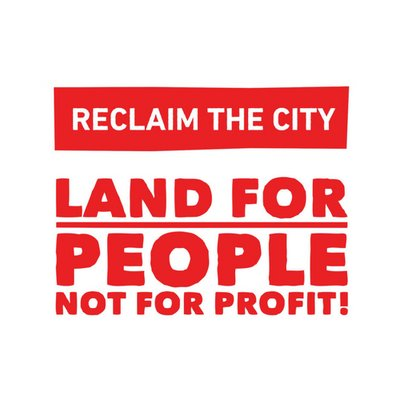
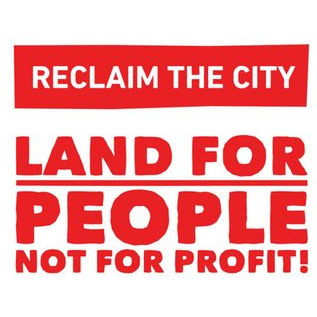
credit for risk of eviction

diff --git a/css/main.scss b/css/main.scss
@@ -723,6 +723,12 @@ nav.navbar-default {
       color: gold;
     }
   }
+  .credit {
+    img {
+      padding: 10%;
+      width: 100%;
+    }
+  }
 }
 
 .step-detail-page, .guide {

diff --git a/_guides/risk-of-eviction.md b/_guides/risk-of-eviction.md
@@ -216,6 +216,12 @@ category: Housing
 
 <div class="credit">
   These guides were developed with support from <a target="_blank" href="http://nu.org.za/">NU</a> and <a target="_blank" href="http://reclaimthecity.org.za/">Reclaim the City</a>.
-  <a target="_blank" href="http://nu.org.za"><img src="/img/nu.png"></a>
-  <a target="_blank" href="http://reclaimthecity.org.za"><img src="/img/rct.jpg"></a>
+  <div class="row">
+    <div class="col-xs-6 col-sm-4 col-md-3 col-lg-2">
+      <a target="_blank" href="http://nu.org.za"><img src="/img/nu.png"></a>
+    </div>
+    <div class="col-xs-6 col-sm-4 col-md-3 col-lg-2">
+      <a target="_blank" href="http://reclaimthecity.org.za"><img src="/img/rct.jpg"></a>
+    </div>
+  </div>
 </div>
